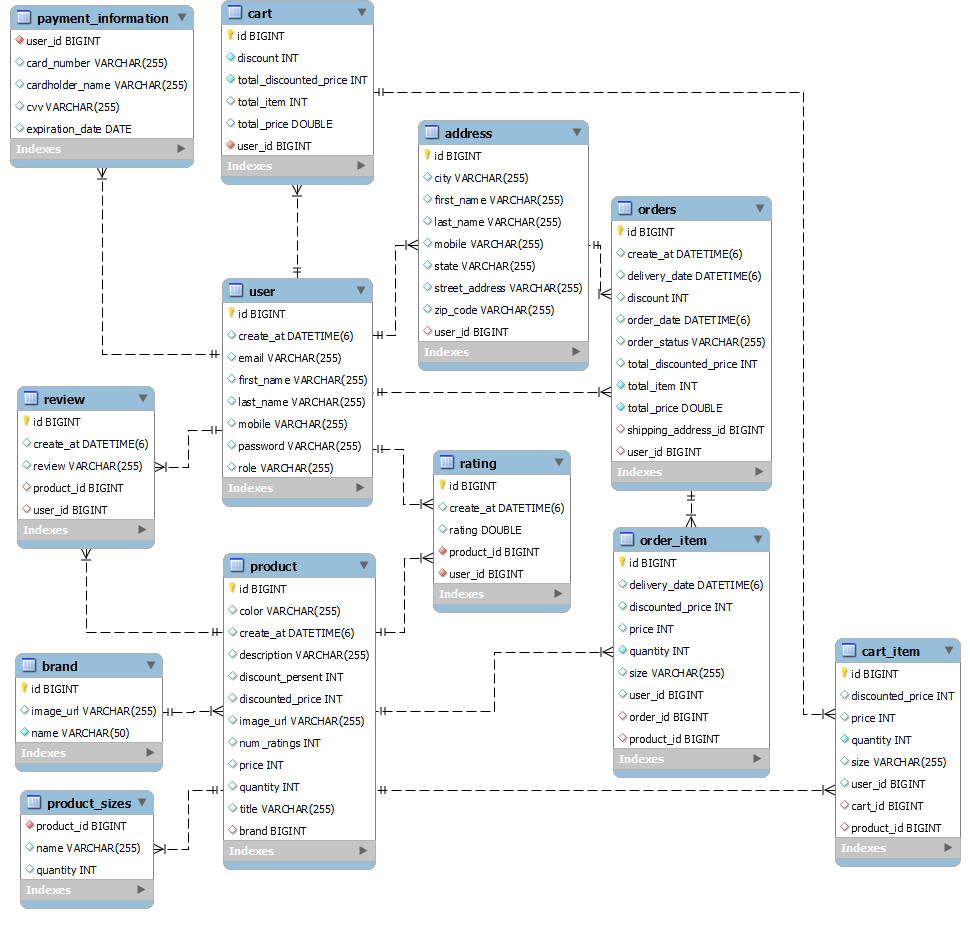
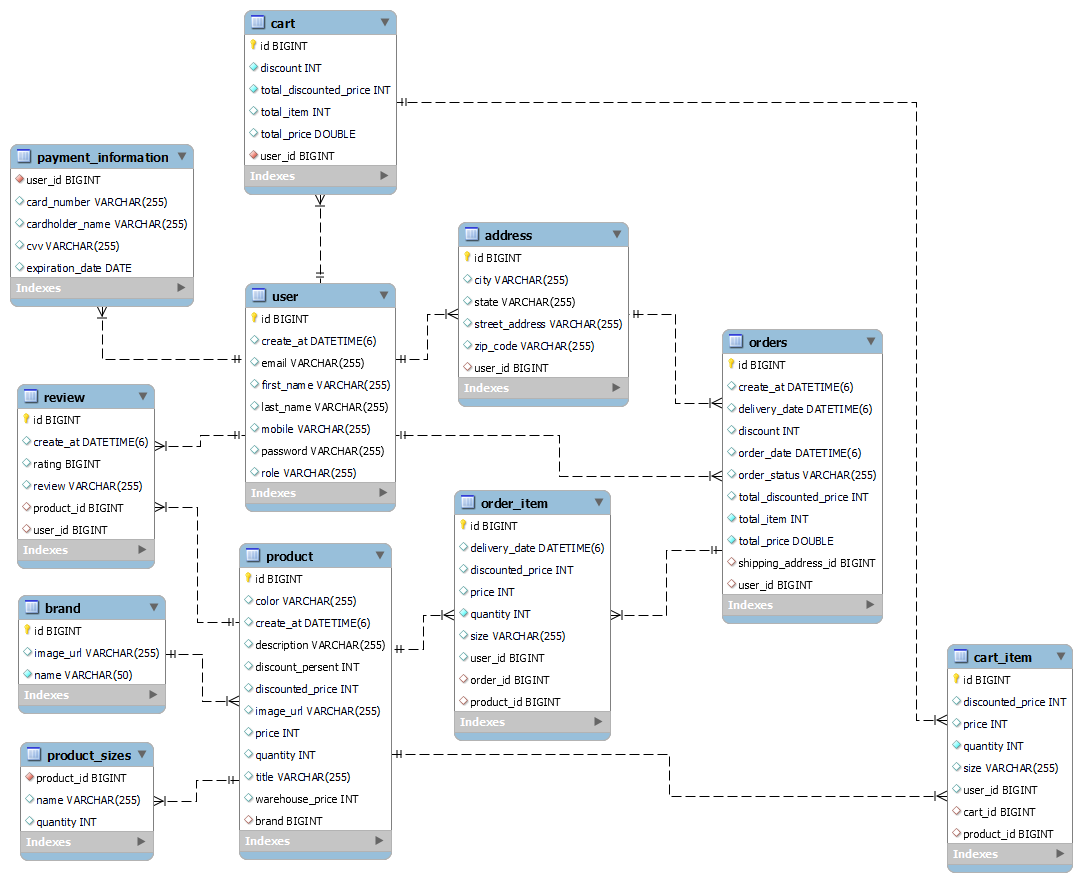
--22-- query in order repos

Changed region(s): [[0.0, 0.1224, 1.0, 1.0], [0.0, 0.0, 0.4021, 0.6429]]

diff --git a/backend/src/main/java/com/dnanh01/backend/service/OrderServiceImplementation.java b/backend/src/main/java/com/dnanh01/backend/service/OrderServiceImplementation.java
@@ -58,66 +58,58 @@ public class OrderServiceImplementation implements OrderService {
 	@Override
 	public Order createOrder(User user, ShippingAddressRequest reqShippingAddress) {
 
-		// Check if an order already exists for the user
 		List<Order> existingOrders = orderRepository.findByUser(user);
 
 		if (!existingOrders.isEmpty()) {
-			// Handle the case where orders already exist
-			// You might need to iterate through the list or choose a specific order based
-			// on your logic
-			// For example, you can choose the first order in the list:
-			// existingOrders.get(0)
 			return updateOrder(existingOrders.get(0), reqShippingAddress);
 		}
-		// Continue with the order creation logic if no existing order is found
+
 		Address existingAddress = findExistingAddress(user, reqShippingAddress);
 		Address address;
 
 		if (existingAddress != null) {
-			// Use the existing address if available
 			address = existingAddress;
 		} else {
-			// Create a new address if no existing address is found
 			address = createNewAddress(user, reqShippingAddress);
 		}
 
-		// Continue with the rest of the order creation logic
 		Cart cart = cartService.findUserCart(user.getId());
-		List<OrderItem> orderItems = new ArrayList<>();
+
+		List<OrderItem> temporaryOrderItems = new ArrayList<>(); // Use a temporary list
 
 		for (CartItem item : cart.getCartItems()) {
 			OrderItem orderItem = new OrderItem();
-			orderItem.setProduct(item.getProduct());
-			orderItem.setSize(item.getSize());
-			orderItem.setQuantity(item.getQuantity());
-			orderItem.setPrice(item.getPrice());
+			orderItem.setDeliveryDate(LocalDateTime.now().plusWeeks(1));
 			orderItem.setDiscountedPrice(item.getDiscountedPrice());
+			orderItem.setPrice(item.getPrice());
+			orderItem.setQuantity(item.getQuantity());
+			orderItem.setSize(item.getSize());
 			orderItem.setUserId(item.getUserId());
+			orderItem.setProduct(item.getProduct());
 
 			OrderItem createdOrderItem = orderItemRepository.save(orderItem);
-			orderItems.add(createdOrderItem);
+			temporaryOrderItems.add(createdOrderItem);
 		}
 
 		Order createdOrder = new Order();
-		createdOrder.setUser(user);
-		createdOrder.setOrderItems(orderItems);
-		createdOrder.setTotalPrice(cart.getTotalPrice());
-		createdOrder.setTotalDiscountedPrice(cart.getTotalDiscountedPrice());
-		createdOrder.setDiscount(cart.getDiscount());
-		createdOrder.setTotalItem(cart.getTotalItem());
-
-		createdOrder.setShippingAddress(address);
 		createdOrder.setCreateAt(LocalDateTime.now());
-		createdOrder.setOrderDate(LocalDateTime.now());
 		createdOrder.setDeliveryDate(LocalDateTime.now().plusWeeks(1));
+		createdOrder.setDiscount(cart.getDiscount());
+		createdOrder.setOrderDate(LocalDateTime.now());
 		createdOrder.setOrderStatus("PENDING");
+		createdOrder.setTotalDiscountedPrice(cart.getTotalDiscountedPrice());
+		createdOrder.setTotalItem(cart.getTotalItem());
+		createdOrder.setTotalPrice(cart.getTotalPrice());
+		createdOrder.setShippingAddress(address);
+		createdOrder.setUser(user);
+
+		createdOrder.setOrderItems(temporaryOrderItems); // Set the list after iteration
 
 		Order savedOrder = orderRepository.save(createdOrder);
 
-		for (OrderItem item : orderItems) {
-			item.setOrder(savedOrder);
-			orderItemRepository.save(item);
-		}
+		// Update the OrderItem references
+		temporaryOrderItems.forEach(item -> item.setOrder(savedOrder));
+		orderItemRepository.saveAll(temporaryOrderItems);
 
 		return savedOrder;
 	}
@@ -259,5 +251,7 @@ public class OrderServiceImplementation implements OrderService {
 		Order order = findOrderById(orderId);
 		orderRepository.delete(order);
 	}
+
+	// --------------------dashboard admin--------------------
 
 }

diff --git a/backend/src/main/java/com/dnanh01/backend/repository/OrderRepository.java b/backend/src/main/java/com/dnanh01/backend/repository/OrderRepository.java
@@ -1,7 +1,6 @@
 package com.dnanh01.backend.repository;
 
 import java.util.List;
-import java.util.Optional;
 
 import org.springframework.data.jpa.repository.JpaRepository;
 import org.springframework.data.jpa.repository.Query;
@@ -12,11 +11,58 @@ import com.dnanh01.backend.model.User;
 
 public interface OrderRepository extends JpaRepository<Order, Long> {
 
-    @Query("SELECT o FROM Order o " +
-            "WHERE o.user.id = :userId " +
-            "AND (o.orderStatus = 'PLACED' OR o.orderStatus = 'CONFIRMED' OR o.orderStatus = 'SHIPPED' OR o.orderStatus = 'DELIVERED')")
-    public List<Order> getUsersOrders(@Param("userId") Long userId);
+        @Query("SELECT o FROM Order o " +
+                        "WHERE o.user.id = :userId " +
+                        "AND (o.orderStatus = 'PLACED' OR o.orderStatus = 'CONFIRMED' OR o.orderStatus = 'SHIPPED' OR o.orderStatus = 'DELIVERED')")
+        public List<Order> getUsersOrders(@Param("userId") Long userId);
 
-    public List<Order> findByUser(User user);
+        public List<Order> findByUser(User user);
 
+        @Query("SELECT o FROM Order o " +
+                        "WHERE o.user.id = :userId " +
+                        "AND (o.orderStatus = 'CONFIRMED')")
+        public List<Order> getConfirmedOrdersForUser(@Param("userId") Long userId);
+
+        // --------------------dashboard admin--------------------
+
+        @Query("SELECT DAYOFWEEK(o.createAt) as day, SUM(o.totalDiscountedPrice) as revenue " +
+                        "FROM Order o " +
+                        "WHERE o.orderStatus = 'CONFIRMED' " +
+                        "GROUP BY day")
+        public List<Object[]> getWeeklyRevenue();
+
+        @Query("SELECT MONTH(o.createAt) as month, SUM(o.totalDiscountedPrice) as revenue " +
+                        "FROM Order o " +
+                        "WHERE o.orderStatus = 'CONFIRMED' " +
+                        "GROUP BY month")
+        public List<Object[]> getMonthlyRevenue();
+
+        @Query("SELECT COALESCE(SUM(o.totalPrice), 0) " +
+                        "FROM Order o " +
+                        "WHERE o.orderStatus = 'CONFIRMED' " +
+                        "AND MONTH(o.createAt) = MONTH(CURRENT_DATE) " +
+                        "AND YEAR(o.createAt) = YEAR(CURRENT_DATE)")
+        double getTotalRevenueForCurrentMonth();
+
+        @Query("SELECT COUNT(DISTINCT o.user.id) " +
+                        "FROM Order o " +
+                        "WHERE o.orderStatus = 'CONFIRMED' " +
+                        "AND MONTH(o.createAt) = MONTH(CURRENT_DATE) " +
+                        "AND YEAR(o.createAt) = YEAR(CURRENT_DATE)")
+        public int getTotalUsersForCurrentMonth();
+
+        @Query("SELECT COUNT(o) FROM Order o " +
+                        "WHERE o.orderStatus = 'CONFIRMED' " +
+                        "AND MONTH(o.createAt) = MONTH(CURRENT_DATE) " +
+                        "AND YEAR(o.createAt) = YEAR(CURRENT_DATE)")
+        public int getTotalConfirmedOrdersForCurrentMonth();
+
+        @Query("SELECT COALESCE(SUM(oi.discountedPrice - p.warehousePrice), 0) " +
+                        "FROM OrderItem oi " +
+                        "JOIN oi.product p " +
+                        "JOIN oi.order o " +
+                        "WHERE o.orderStatus = 'CONFIRMED' " +
+                        "AND MONTH(o.createAt) = MONTH(CURRENT_DATE) " +
+                        "AND YEAR(o.createAt) = YEAR(CURRENT_DATE)")
+        public double getTotalProfitForCurrentMonth();
 }

diff --git a/backend/src/main/java/com/dnanh01/backend/request/CreateProductRequest.java b/backend/src/main/java/com/dnanh01/backend/request/CreateProductRequest.java
@@ -9,7 +9,7 @@ public class CreateProductRequest {
     private String title;
     private String description;
     private int price;
-
+    private int warehousePrice;
     private int discountedPrice;
     private int discountPersent;
     private int quantity;
@@ -19,6 +19,21 @@ public class CreateProductRequest {
     private Set<Size> size = new HashSet<>();
 
     private String imageUrl;
+
+    public CreateProductRequest(String title, String description, int price, int warehousePrice, int discountedPrice,
+            int discountPersent, int quantity, BrandRequest brand, String color, Set<Size> size, String imageUrl) {
+        this.title = title;
+        this.description = description;
+        this.price = price;
+        this.warehousePrice = warehousePrice;
+        this.discountedPrice = discountedPrice;
+        this.discountPersent = discountPersent;
+        this.quantity = quantity;
+        this.brand = brand;
+        this.color = color;
+        this.size = size;
+        this.imageUrl = imageUrl;
+    }
 
     public String getTitle() {
         return title;
@@ -42,6 +57,14 @@ public class CreateProductRequest {
 
     public void setPrice(int price) {
         this.price = price;
+    }
+
+    public int getWarehousePrice() {
+        return warehousePrice;
+    }
+
+    public void setWarehousePrice(int warehousePrice) {
+        this.warehousePrice = warehousePrice;
     }
 
     public int getDiscountedPrice() {

diff --git a/backend/src/main/java/com/dnanh01/backend/model/Product.java b/backend/src/main/java/com/dnanh01/backend/model/Product.java
@@ -71,12 +71,13 @@ public class Product {
     public Product() {
     }
 
-    public Product(Long id, String title, String description, int price, int discountedPrice, int discountPersent,
-            int quantity, String color, Set<Size> sizes, String imageUrl, List<Review> reviews,
-            int numRatings, Brand brand, LocalDateTime createAt) {
+    public Product(Long id, String title, String description, int warehousePrice, int price, int discountedPrice,
+            int discountPersent, int quantity, String color, Set<Size> sizes, String imageUrl, List<Review> reviews,
+            Brand brand, LocalDateTime createAt) {
         this.id = id;
         this.title = title;
         this.description = description;
+        this.warehousePrice = warehousePrice;
         this.price = price;
         this.discountedPrice = discountedPrice;
         this.discountPersent = discountPersent;
@@ -111,6 +112,14 @@ public class Product {
 
     public void setDescription(String description) {
         this.description = description;
+    }
+
+    public int getWarehousePrice() {
+        return warehousePrice;
+    }
+
+    public void setWarehousePrice(int warehousePrice) {
+        this.warehousePrice = warehousePrice;
     }
 
     public int getPrice() {

diff --git a/backend/src/main/java/com/dnanh01/backend/model/Review.java b/backend/src/main/java/com/dnanh01/backend/model/Review.java
@@ -19,18 +19,18 @@ public class Review {
     private Long id;
 
     private String review;
-    
+
     private Long rating;
 
     public Long getRating() {
-		return rating;
-	}
+        return rating;
+    }
 
-	public void setRating(Long rating) {
-		this.rating = rating;
-	}
+    public void setRating(Long rating) {
+        this.rating = rating;
+    }
 
-	@ManyToOne
+    @ManyToOne
     @JoinColumn(name = "product_id")
     @JsonIgnore
     private Product product;

diff --git a/backend/src/main/java/com/dnanh01/backend/service/ProductServiceImplementation.java b/backend/src/main/java/com/dnanh01/backend/service/ProductServiceImplementation.java
@@ -57,7 +57,7 @@ public class ProductServiceImplementation implements ProductService {
         product.setDiscountedPrice(req.getDiscountedPrice());
         product.setImageUrl(req.getImageUrl());
         product.setTitle(req.getTitle());
-
+        product.setWarehousePrice(req.getWarehousePrice());
         product.setPrice(req.getPrice());
         product.setSizes(req.getSize());
         product.setQuantity(req.getQuantity());

diff --git a/backend/src/main/java/com/dnanh01/backend/model/Order.java b/backend/src/main/java/com/dnanh01/backend/model/Order.java
@@ -27,7 +27,7 @@ public class Order {
     @ManyToOne
     private User user;
 
-    @OneToMany(mappedBy = "order", cascade = CascadeType.ALL)
+    @OneToMany(mappedBy = "order", cascade = CascadeType.ALL, orphanRemoval = true)
     private List<OrderItem> orderItems = new ArrayList<>();
 
     private LocalDateTime orderDate;

diff --git a/backend/src/main/java/com/dnanh01/backend/controller/AdminDashboardController.java b/backend/src/main/java/com/dnanh01/backend/controller/AdminDashboardController.java
@@ -7,5 +7,4 @@ import org.springframework.web.bind.annotation.RestController;
 @RequestMapping("/api/admin/dashboard")
 public class AdminDashboardController {
 
-    
 }
